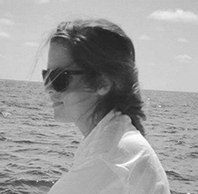
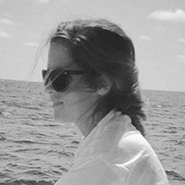
completed header

diff --git a/index.html b/index.html
@@ -15,6 +15,7 @@
 
 
     <div class="large-3 columns">
+    <h1>Margaret<span>Godowns</span></h1>
 
     </div>
     <div class="large-3 columns">
@@ -34,10 +35,10 @@
 
   <div class="titleSection">
     <div class="row">
-      <div class="large-4 columns">
-      <img src="portfolioImages/arrowRight.png">
-        <img src="portfolioImages/portProfile.png" alt="" />
-      </div>
+      <img class="round" src="portfolioImages/portProfile.png" alt="" />
+    </div>
+    <div class="row">
+      <img src="portfolioImages/headerImg.png">
     </div>
   </div>
 </div>

diff --git a/scss/app.scss b/scss/app.scss
@@ -43,15 +43,23 @@
 
 .topHeader{
   margin-top: 15px;
-  border-bottom: 1px solid #d8d9d8;
+  border-bottom: 1px solid #ff8a6d;
+  h1{
+  font-family: 'Courier New', courier;
+  }
   img{
     padding-bottom: 15px;
   }
 }
 
 .titleSection{
-  img{
+text-align: center;	
+  .round{
+  	position: relative;
     border-radius: 100%;
-    padding: 15px;
+    border: 5px solid white;
+    z-index: 100;
+    margin-top: -50px;
+    margin-bottom: -50px;
   }
 }
